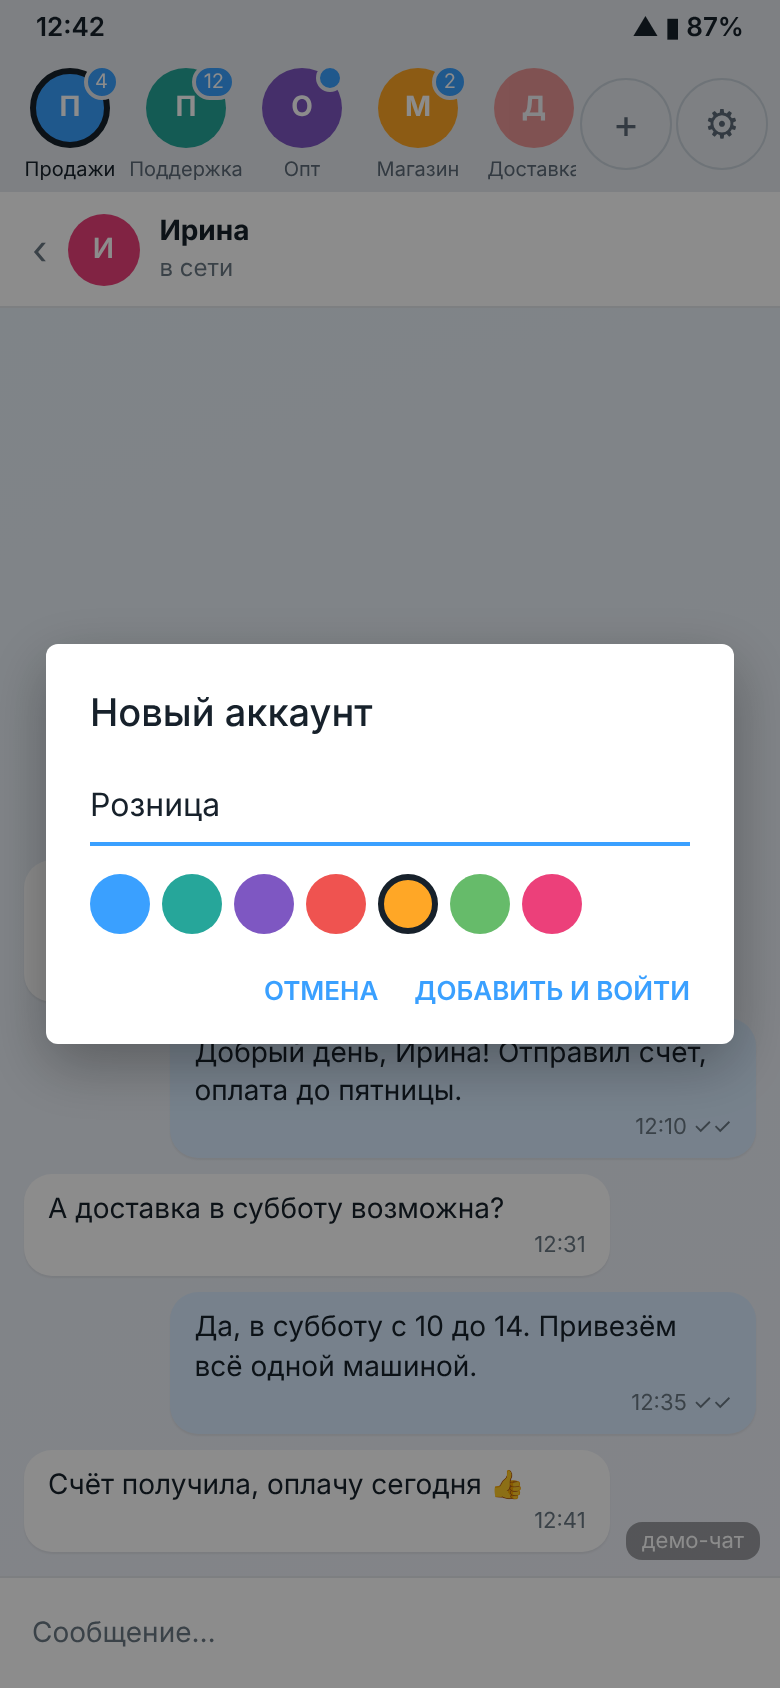
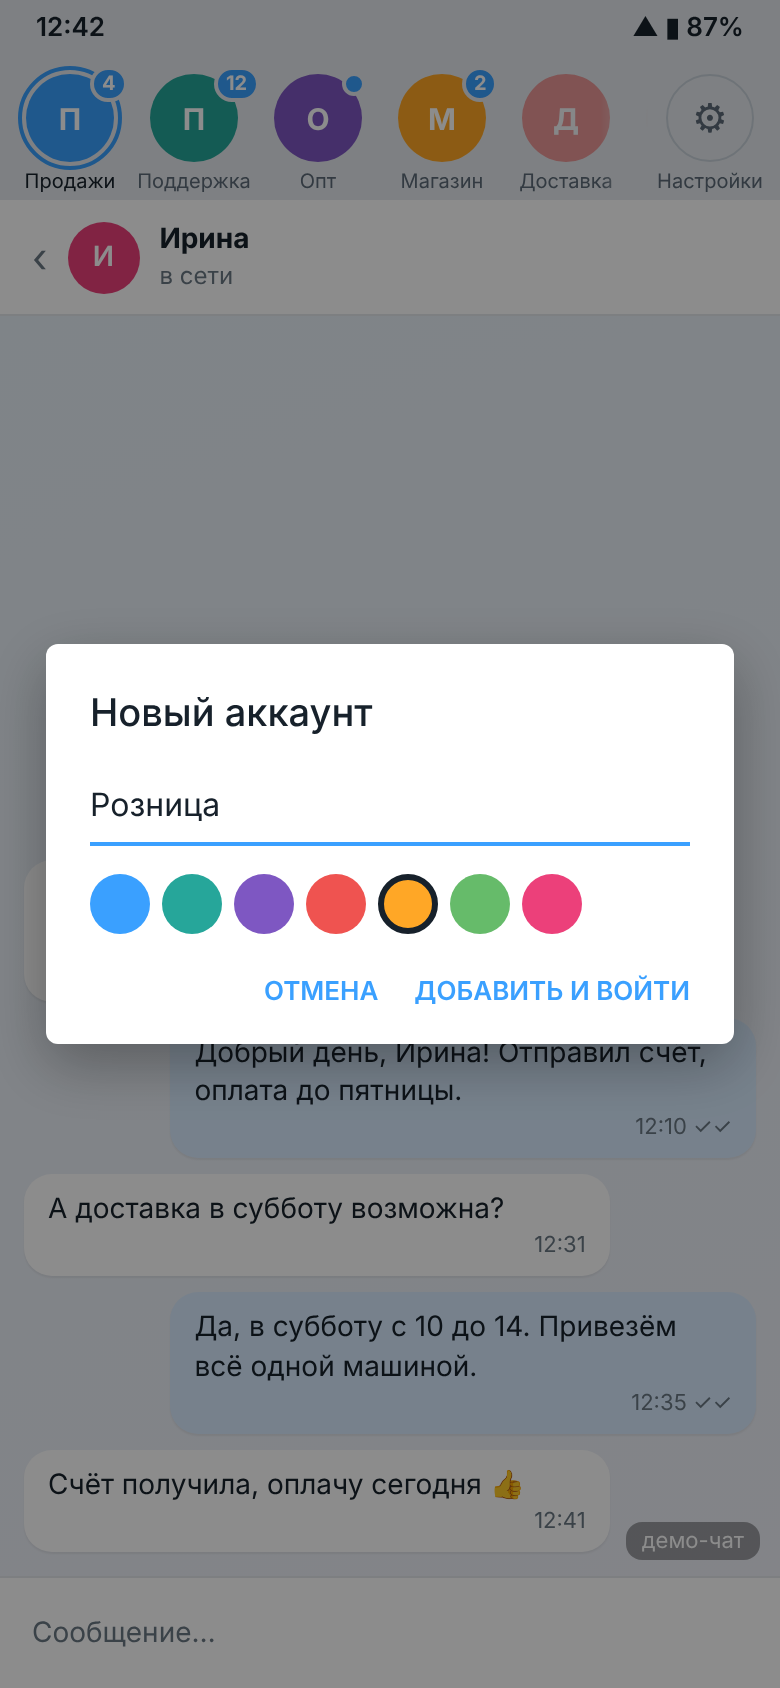
Android: even account bar
Every tile has the same geometry (62x66 dp, 44 dp icon at the top, label at the bottom), so the
accounts, + and settings line up. The active ring goes around the avatar instead of shrinking it,
badges sit at the same corner on every tile, + moves to the end of the list, and the list fades
at the edge instead of cutting a tile. Screenshots re-rendered.

Claude-Session: https://claude.ai/code/session_01CRM8nFGG7VZVC9La9kUpL5

Changed region(s): [[0.1846, 0.0308, 0.8, 0.1848], [0.0, 0.0308, 0.1846, 0.1848], [0.8923, 0.0616, 0.9538, 0.1232]]

diff --git a/android/app/src/main/java/app/gemspace/allinone/MainActivity.kt b/android/app/src/main/java/app/gemspace/allinone/MainActivity.kt
@@ -156,17 +156,19 @@ class MainActivity : AppCompatActivity() {
         }
         val bar = LinearLayout(this).apply {
             orientation = LinearLayout.HORIZONTAL
-            gravity = Gravity.CENTER_VERTICAL
-            setPadding(dp(6), dp(4), dp(6), dp(4))
+            gravity = Gravity.TOP
+            setPadding(dp(4), dp(4), dp(4), dp(2))
         }
-        strip = LinearLayout(this).apply { orientation = LinearLayout.HORIZONTAL; gravity = Gravity.CENTER_VERTICAL }
+        strip = LinearLayout(this).apply { orientation = LinearLayout.HORIZONTAL; gravity = Gravity.TOP }
         val scroll = HorizontalScrollView(this).apply {
             isHorizontalScrollBarEnabled = false
+            // a tile cut by the screen edge fades out instead of ending abruptly
+            isHorizontalFadingEdgeEnabled = true
+            setFadingEdgeLength(dp(24))
             addView(strip)
         }
         bar.addView(scroll, LinearLayout.LayoutParams(0, ViewGroup.LayoutParams.WRAP_CONTENT, 1f))
-        bar.addView(toolButton("+", "Добавить аккаунт") { editAccount(null) })
-        bar.addView(toolButton("⚙", "Настройки") { openSettings() })
+        bar.addView(toolTile("⚙", "Настройки") { openSettings() })
         root.addView(bar, LinearLayout.LayoutParams(ViewGroup.LayoutParams.MATCH_PARENT, ViewGroup.LayoutParams.WRAP_CONTENT))
 
         pages = FrameLayout(this).apply { setBackgroundColor(ContextCompat.getColor(context, R.color.page)) }
@@ -203,57 +205,105 @@ class MainActivity : AppCompatActivity() {
         }
     }
 
-    private fun toolButton(label: String, desc: String, onClick: () -> Unit) = TextView(this).apply {
-        text = label
+    // Every tile of the bar has the same geometry: TILE_W x TILE_H, a round AVATAR_SIZE icon centred at the top
+    // and a one-line label at the bottom, so accounts and the + / settings buttons line up.
+    private fun tileFrame(desc: String) = FrameLayout(this).apply {
+        layoutParams = LinearLayout.LayoutParams(dp(TILE_W), dp(TILE_H))
         contentDescription = desc
-        textSize = 20f
+    }
+
+    private fun tileLabel(text: String, strong: Boolean) = TextView(this).apply {
+        this.text = text
+        textSize = 10f
+        maxLines = 1
         gravity = Gravity.CENTER
-        setTextColor(ContextCompat.getColor(context, R.color.muted))
-        layoutParams = LinearLayout.LayoutParams(dp(44), dp(44)).apply { marginStart = dp(2) }
-        background = GradientDrawable().apply { shape = GradientDrawable.OVAL; setStroke(dp(1), ContextCompat.getColor(context, R.color.line)) }
+        setPadding(dp(2), 0, dp(2), 0)
+        ellipsize = android.text.TextUtils.TruncateAt.END
+        setTextColor(ContextCompat.getColor(context, if (strong) R.color.fg else R.color.muted))
+    }
+
+    private fun iconParams() =
+        FrameLayout.LayoutParams(dp(AVATAR_SIZE), dp(AVATAR_SIZE), Gravity.CENTER_HORIZONTAL or Gravity.TOP).apply { topMargin = dp(AVATAR_TOP) }
+
+    private fun labelParams() =
+        FrameLayout.LayoutParams(ViewGroup.LayoutParams.MATCH_PARENT, ViewGroup.LayoutParams.WRAP_CONTENT, Gravity.BOTTOM)
+
+    private fun toolTile(symbol: String, label: String, onClick: () -> Unit) = tileFrame(label).apply {
+        addView(TextView(context).apply {
+            text = symbol
+            textSize = 20f
+            gravity = Gravity.CENTER
+            setTextColor(ContextCompat.getColor(context, R.color.muted))
+            background = GradientDrawable().apply {
+                shape = GradientDrawable.OVAL
+                setStroke(dp(1), ContextCompat.getColor(context, R.color.line))
+            }
+        }, iconParams())
+        addView(tileLabel(label, false), labelParams())
         setOnClickListener { onClick() }
     }
 
     private fun render() {
         strip.removeAllViews()
+        val accent = 0xFF3AA0FF.toInt()
         for (a in store.accounts) {
-            val tile = FrameLayout(this).apply {
-                layoutParams = LinearLayout.LayoutParams(dp(58), dp(60))
+            val active = a.id == store.active
+            val tile = tileFrame(a.name).apply {
                 setOnClickListener { switchTo(a.id) }
                 setOnLongClickListener { accountMenu(this, a); true }
-                contentDescription = a.name
             }
-            val active = a.id == store.active
-            val ava = TextView(this).apply {
+            if (active) {
+                // the ring goes around the avatar, so the avatar keeps its size and position
+                tile.addView(View(this).apply {
+                    background = GradientDrawable().apply { shape = GradientDrawable.OVAL; setStroke(dp(2), accent) }
+                }, FrameLayout.LayoutParams(dp(RING_SIZE), dp(RING_SIZE), Gravity.CENTER_HORIZONTAL or Gravity.TOP).apply {
+                    topMargin = dp(AVATAR_TOP - (RING_SIZE - AVATAR_SIZE) / 2)
+                })
+            }
+            tile.addView(TextView(this).apply {
                 text = Store.initials(a.name)
+                textSize = 15f
                 setTextColor(Color.WHITE)
                 setTypeface(typeface, Typeface.BOLD)
                 gravity = Gravity.CENTER
-                background = GradientDrawable().apply {
-                    shape = GradientDrawable.OVAL
-                    setColor(a.color)
-                    if (active) setStroke(dp(3), ContextCompat.getColor(context, R.color.fg))
-                }
+                background = GradientDrawable().apply { shape = GradientDrawable.OVAL; setColor(a.color) }
                 alpha = if (views.containsKey(a.id) || active) 1f else 0.55f
-            }
-            tile.addView(ava, FrameLayout.LayoutParams(dp(40), dp(40), Gravity.CENTER_HORIZONTAL or Gravity.TOP).apply { topMargin = dp(2) })
-            tile.addView(TextView(this).apply {
-                text = a.name; textSize = 10f; maxLines = 1; gravity = Gravity.CENTER
-                ellipsize = android.text.TextUtils.TruncateAt.END
-                setTextColor(ContextCompat.getColor(context, if (active) R.color.fg else R.color.muted))
-            }, FrameLayout.LayoutParams(ViewGroup.LayoutParams.MATCH_PARENT, ViewGroup.LayoutParams.WRAP_CONTENT, Gravity.BOTTOM))
+            }, iconParams())
+            tile.addView(tileLabel(a.name, active), labelParams())
+            // badge on the avatar's top right corner, the same place on every tile
             val n = unread[a.id] ?: 0
-            if (n > 0 || a.id in attention) {
+            val avatarRight = (TILE_W + AVATAR_SIZE) / 2
+            if (n > 0) {
                 tile.addView(TextView(this).apply {
-                    text = if (n > 99) "99+" else if (n > 0) n.toString() else ""
-                    textSize = 10f; setTextColor(Color.WHITE); gravity = Gravity.CENTER
+                    text = if (n > 99) "99+" else n.toString()
+                    textSize = 10f
+                    setTextColor(Color.WHITE)
+                    setTypeface(typeface, Typeface.BOLD)
+                    gravity = Gravity.CENTER
                     setPadding(dp(4), 0, dp(4), 0)
-                    minWidth = dp(if (n > 0) 18 else 10)
-                    background = GradientDrawable().apply { cornerRadius = dp(9).toFloat(); setColor(0xFF3AA0FF.toInt()); setStroke(dp(2), ContextCompat.getColor(context, R.color.bar)) }
-                }, FrameLayout.LayoutParams(ViewGroup.LayoutParams.WRAP_CONTENT, dp(if (n > 0) 18 else 10), Gravity.END or Gravity.TOP).apply { marginEnd = dp(4) })
+                    minWidth = dp(18)
+                    background = GradientDrawable().apply {
+                        cornerRadius = dp(9).toFloat(); setColor(accent)
+                        setStroke(dp(2), ContextCompat.getColor(context, R.color.bar))
+                    }
+                }, FrameLayout.LayoutParams(ViewGroup.LayoutParams.WRAP_CONTENT, dp(18), Gravity.START or Gravity.TOP).apply {
+                    leftMargin = dp(avatarRight - 12)
+                    topMargin = dp(AVATAR_TOP - 4)
+                })
+            } else if (a.id in attention) {
+                tile.addView(View(this).apply {
+                    background = GradientDrawable().apply {
+                        shape = GradientDrawable.OVAL; setColor(accent)
+                        setStroke(dp(2), ContextCompat.getColor(context, R.color.bar))
+                    }
+                }, FrameLayout.LayoutParams(dp(12), dp(12), Gravity.START or Gravity.TOP).apply {
+                    leftMargin = dp(avatarRight - 10)
+                    topMargin = dp(AVATAR_TOP - 1)
+                })
             }
             strip.addView(tile)
         }
+        strip.addView(toolTile("+", "Добавить") { editAccount(null) })
         welcome.visibility = if (store.accounts.isEmpty()) View.VISIBLE else View.GONE
         for ((id, wv) in views) wv.visibility = if (id == store.active) View.VISIBLE else View.GONE
         Notifier.updateKeepAlive(this, unread.values.sum())
@@ -590,5 +640,12 @@ class MainActivity : AppCompatActivity() {
 
     companion object {
         const val GEM_URL = "https://web.gemspace.com/"
+
+        // geometry of the bar tiles, dp
+        private const val TILE_W = 62
+        private const val TILE_H = 66
+        private const val AVATAR_SIZE = 44
+        private const val AVATAR_TOP = 5
+        private const val RING_SIZE = 52
     }
 }

diff --git a/docs/demo/phone.html b/docs/demo/phone.html
@@ -1,22 +1,23 @@
 <!doctype html>
 <html lang="ru"><head><meta charset="utf-8"><meta name="viewport" content="width=device-width,initial-scale=1"><title>Gemspace Android demo</title>
-<!-- Replica of the Android app's account strip (MainActivity.render) for screenshots; the page below is a demo chat. -->
+<!-- Replica of the Android app's account strip (MainActivity.render, same tile geometry) for screenshots; the page below is a demo chat. -->
 <style>
 :root{--bar:#e6eaee;--fg:#17212b;--muted:#5d6b78;--line:#c9d2da}
 html,body{margin:0;height:100%;font:14px/1.4 Roboto,"Segoe UI",system-ui,sans-serif;background:var(--bar);color:var(--fg);overflow:hidden}
 .status{height:28px;display:flex;justify-content:space-between;align-items:center;padding:0 18px;font-size:13px;font-weight:600}
-.bar{display:flex;align-items:center;padding:4px 6px}
-.strip{flex:1;display:flex;overflow:hidden}
-.tile{position:relative;width:58px;height:60px;flex:none}
-.ava{position:absolute;left:9px;top:2px;width:40px;height:40px;border-radius:50%;display:grid;place-items:center;color:#fff;font-weight:700;box-sizing:border-box}
-.on .ava{border:3px solid var(--fg)}
+.bar{display:flex;align-items:flex-start;padding:4px 4px 2px}
+.strip{flex:1;display:flex;overflow:hidden;-webkit-mask-image:linear-gradient(90deg,#000 calc(100% - 24px),transparent)}
+.tile{position:relative;width:62px;height:66px;flex:none}
+.ava,.ic{position:absolute;left:9px;top:5px;width:44px;height:44px;border-radius:50%;display:grid;place-items:center;box-sizing:border-box}
+.ava{color:#fff;font-weight:700;font-size:15px}
+.ring{position:absolute;left:5px;top:1px;width:52px;height:52px;border-radius:50%;border:2px solid #3aa0ff;box-sizing:border-box}
+.ic{border:1px solid var(--line);font-size:20px;color:var(--muted)}
 .sleep .ava{opacity:.55}
-.lbl{position:absolute;bottom:0;left:0;right:0;text-align:center;font-size:10px;color:var(--muted);white-space:nowrap;overflow:hidden;text-overflow:ellipsis}
+.lbl{position:absolute;bottom:0;left:2px;right:2px;text-align:center;font-size:10px;color:var(--muted);white-space:nowrap;overflow:hidden;text-overflow:ellipsis}
 .on .lbl{color:var(--fg)}
-.badge{position:absolute;right:4px;top:0;min-width:18px;height:18px;border-radius:9px;background:#3aa0ff;color:#fff;font-size:10px;display:grid;place-items:center;padding:0 4px;box-sizing:border-box;border:2px solid var(--bar)}
-.dot{position:absolute;right:8px;top:0;width:10px;height:10px;border-radius:50%;background:#3aa0ff;border:2px solid var(--bar)}
-.tool{width:44px;height:44px;border-radius:50%;border:1px solid var(--line);display:grid;place-items:center;font-size:20px;color:var(--muted);margin-left:2px;flex:none}
-iframe{border:0;width:100%;height:calc(100% - 96px);display:block}
+.badge{position:absolute;left:41px;top:1px;min-width:18px;height:18px;border-radius:9px;background:#3aa0ff;color:#fff;font-size:10px;font-weight:700;display:grid;place-items:center;padding:0 4px;box-sizing:border-box;border:2px solid var(--bar)}
+.dot{position:absolute;left:43px;top:4px;width:12px;height:12px;border-radius:50%;background:#3aa0ff;border:2px solid var(--bar);box-sizing:border-box}
+iframe{border:0;width:100%;height:calc(100% - 100px);display:block}
 .scrim{position:fixed;inset:0;background:rgba(0,0,0,.45);display:none;align-items:center;justify-content:center}
 .dlg{background:#fff;border-radius:6px;width:300px;padding:22px 22px 10px;box-shadow:0 10px 30px rgba(0,0,0,.3)}
 .dlg h3{margin:0 0 12px;font-size:19px;font-weight:500}
@@ -26,7 +27,7 @@ iframe{border:0;width:100%;height:calc(100% - 96px);display:block}
 .btns{display:flex;justify-content:flex-end;gap:18px;padding:14px 0 6px;color:#3aa0ff;font-weight:600;text-transform:uppercase;font-size:13px}
 </style></head><body>
 <div class="status"><span>12:42</span><span>▲ ▮ 87%</span></div>
-<div class="bar"><div class="strip" id="strip"></div><div class="tool">+</div><div class="tool">⚙</div></div>
+<div class="bar"><div class="strip" id="strip"></div><div class="tile"><div class="ic">⚙</div><div class="lbl">Настройки</div></div></div>
 <iframe src="chat-phone.html"></iframe>
 <div class="scrim" id="scrim"><div class="dlg"><h3>Новый аккаунт</h3><div class="in">Розница</div>
 <div class="cs"><span style="background:#3aa0ff"></span><span style="background:#26a69a"></span><span style="background:#7e57c2"></span><span style="background:#ef5350"></span><span class="sel" style="background:#ffa726"></span><span style="background:#66bb6a"></span><span style="background:#ec407a"></span></div>
@@ -35,6 +36,7 @@ iframe{border:0;width:100%;height:calc(100% - 96px);display:block}
 const A=[['Продажи','#3aa0ff',4,0,1,1],['Поддержка','#26a69a',12,0,0,1],['Опт','#7e57c2',0,1,0,1],['Магазин','#ffa726',2,0,0,1],['Доставка','#ef5350',0,0,0,0],['Анна К.','#ec407a',0,0,0,0]];
 const s=document.getElementById('strip');
 for(const [n,c,u,att,on,awake] of A){const t=document.createElement('div');t.className='tile'+(on?' on':'')+(awake?'':' sleep');
-const i=n.trim().split(/\s+/);t.innerHTML=`<div class="ava" style="background:${c}">${(i[0][0]+(i[1]?i[1][0]:'')).toUpperCase()}</div><div class="lbl">${n}</div>`+(u?`<div class="badge">${u}</div>`:att?'<div class="dot"></div>':'');s.appendChild(t)}
+const i=n.trim().split(/\s+/);t.innerHTML=(on?'<div class="ring"></div>':'')+`<div class="ava" style="background:${c}">${(i[0][0]+(i[1]?i[1][0]:'')).toUpperCase()}</div><div class="lbl">${n}</div>`+(u?`<div class="badge">${u}</div>`:att?'<div class="dot"></div>':'');s.appendChild(t)}
+const add=document.createElement('div');add.className='tile';add.innerHTML='<div class="ic">+</div><div class="lbl">Добавить</div>';s.appendChild(add);
 if(location.search.includes('dialog'))document.getElementById('scrim').style.display='flex';
 </script></body></html>
